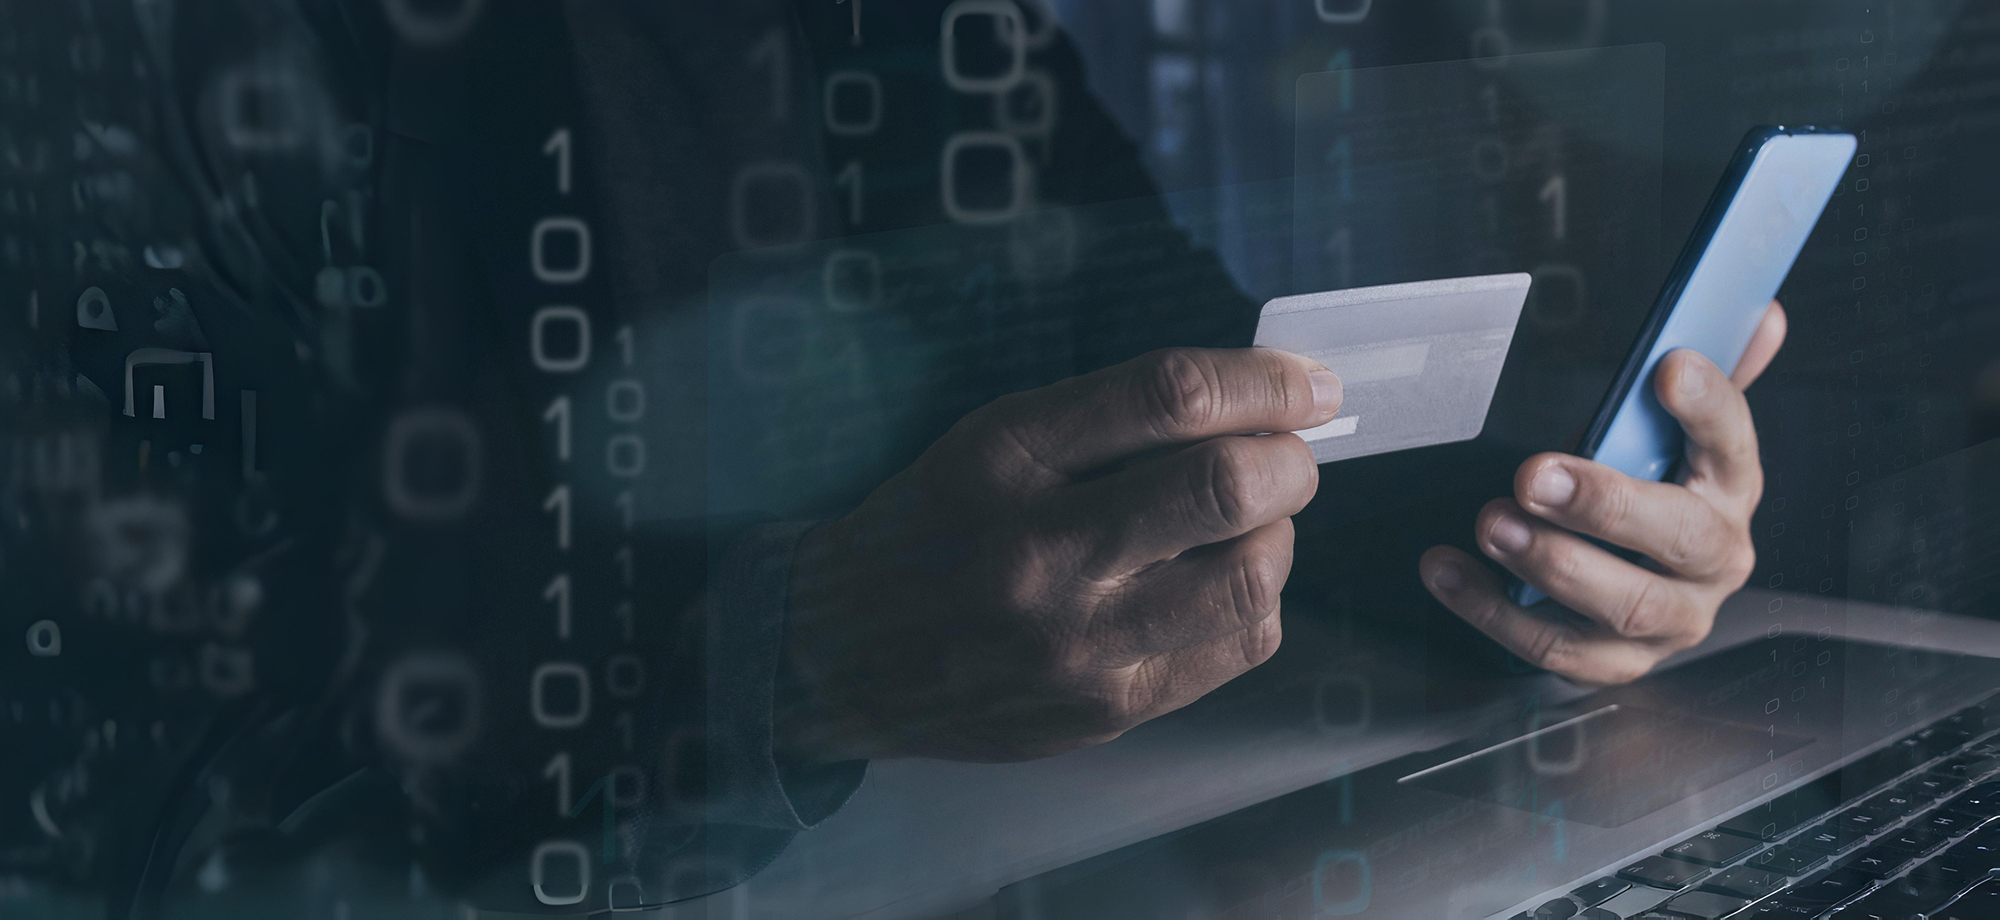
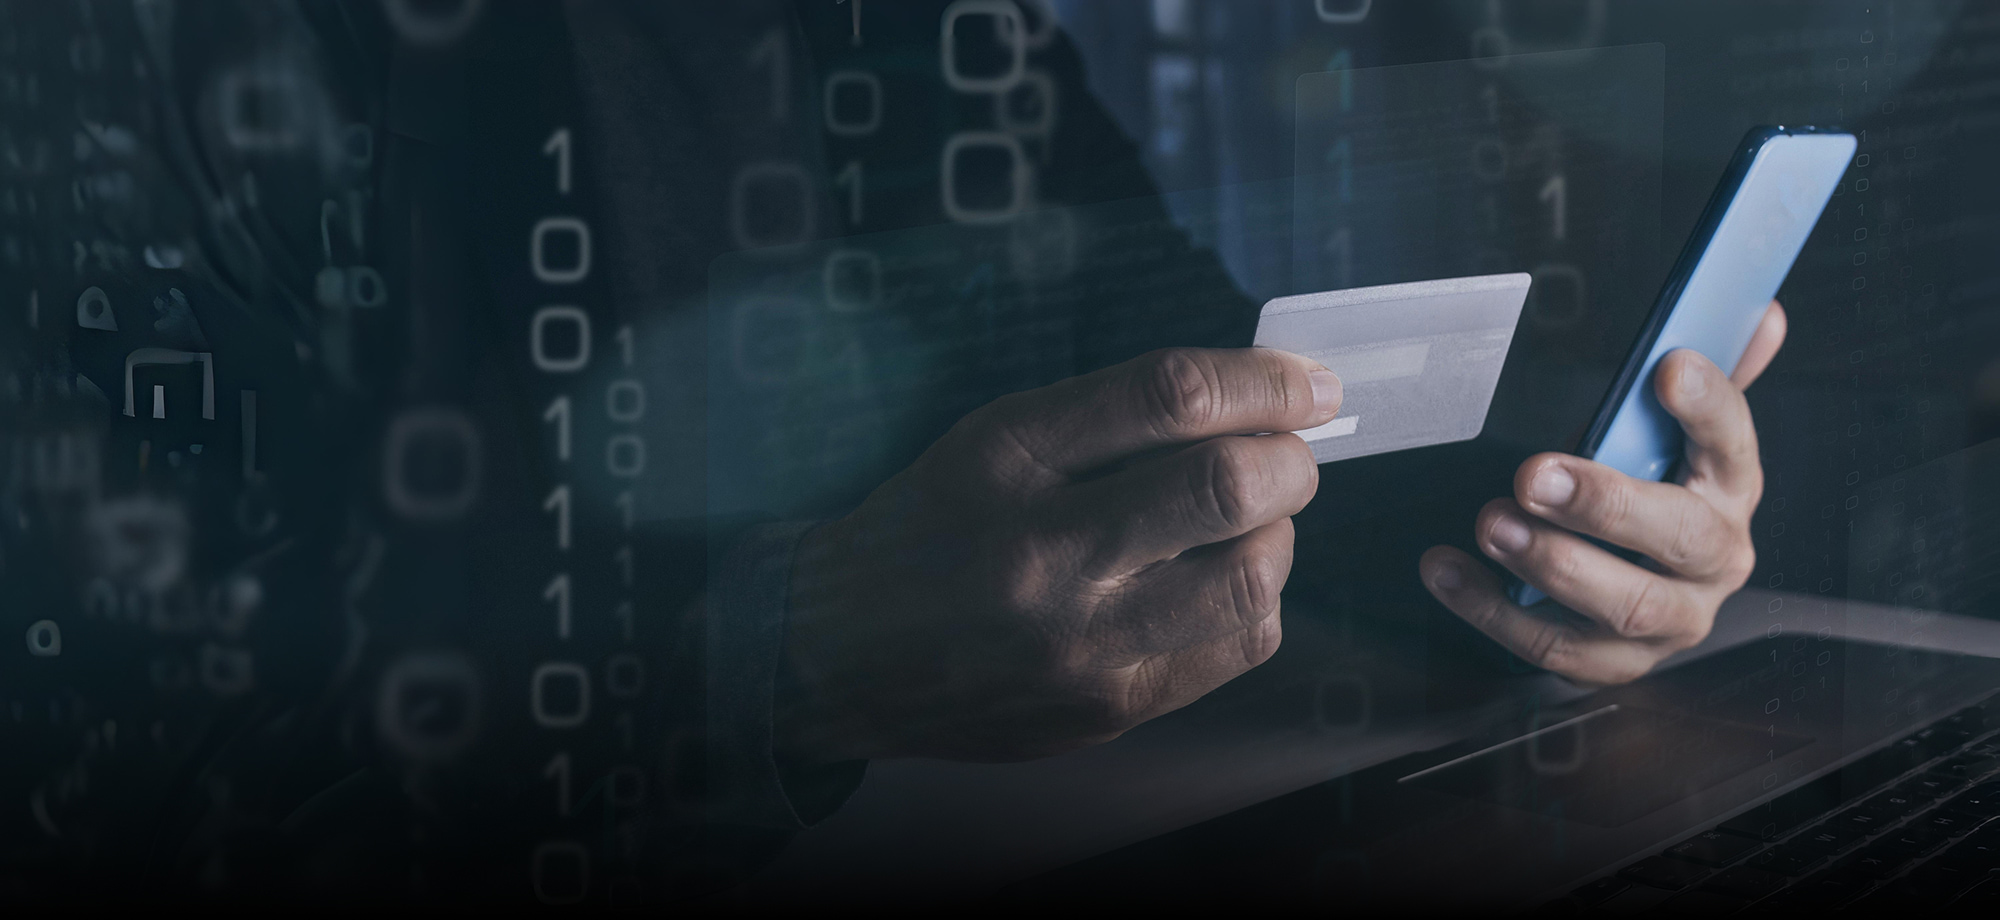
fix: Background

Changed region(s): [[0.0, 0.7, 1.0, 1.0]]

diff --git a/src/components/sectionElements/Lp01/hero/FullImg.jsx b/src/components/sectionElements/Lp01/hero/FullImg.jsx
@@ -30,7 +30,7 @@ function FullImg({ obs }) {
               <img
                 src={contentLp01.hero.logo.logoImg}
                 alt={contentLp01.hero.logo.alt}
-                className="ml-[5%] max-w-[20%] mt-[15%] p-[5px] tablet1:py-[7px] bg-white rounded-sm"
+                className="ml-[5%] max-w-[60%] mt-[15%] p-[5px] tablet1:py-[7px]"
               />
             </MotionDivDownToUp>
 
@@ -123,7 +123,7 @@ function FullImg({ obs }) {
                     <img
                       src={contentLp01.hero.logo.logoImg}
                       alt={contentLp01.hero.logo.alt}
-                      className="tablet1:w-[280px] desktop1:w-[180px] desktop1:mb-[60px] "
+                      className="tablet1:w-[280px] desktop1:w-[250px] desktop1:mb-[60px] "
                     />
                   </MotionDivDownToUp>
                   <div className="mt-[30%] phone3:mt-[35%] tablet1:mt-[30px] desktop1:mt-0">

diff --git a/src/content/contentLp01.jsx b/src/content/contentLp01.jsx
@@ -1,4 +1,4 @@
-import bgImg from "../assets/imgs/hero/bgHeroInfluencer.webp";
+import bgImg from "../assets/imgs/hero/bgHeroInfluencer.jpg";
 import logo from "../assets/imgs/logo/logo.webp";
 import imagemAbout from "../assets/imgs/about/aboutImg.webp";
 import { infos } from "./content";
